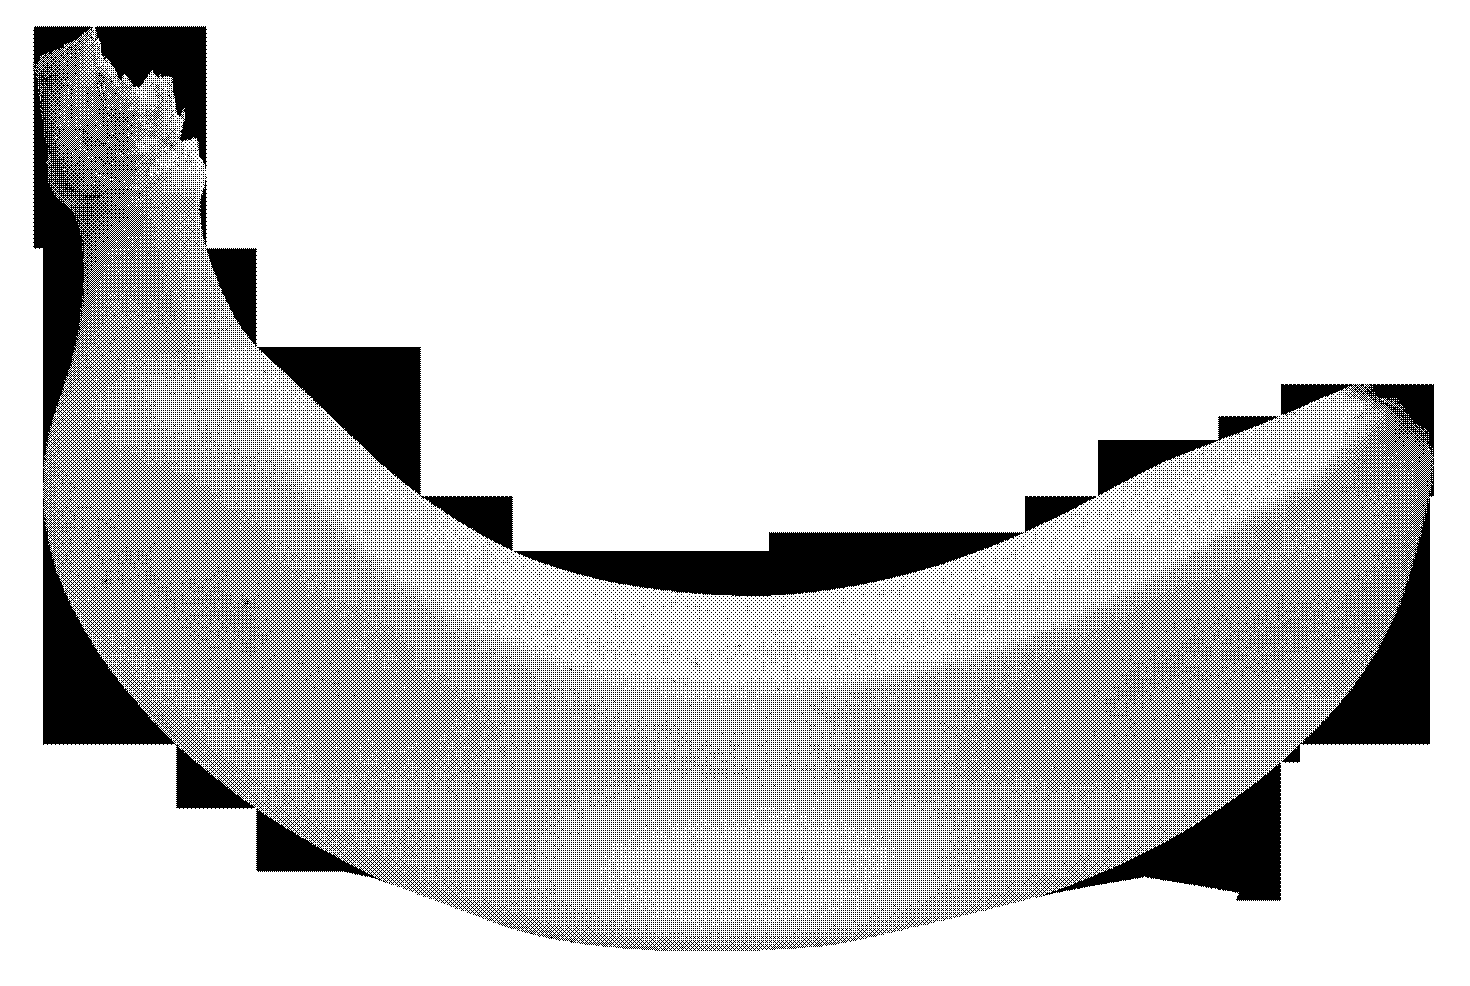
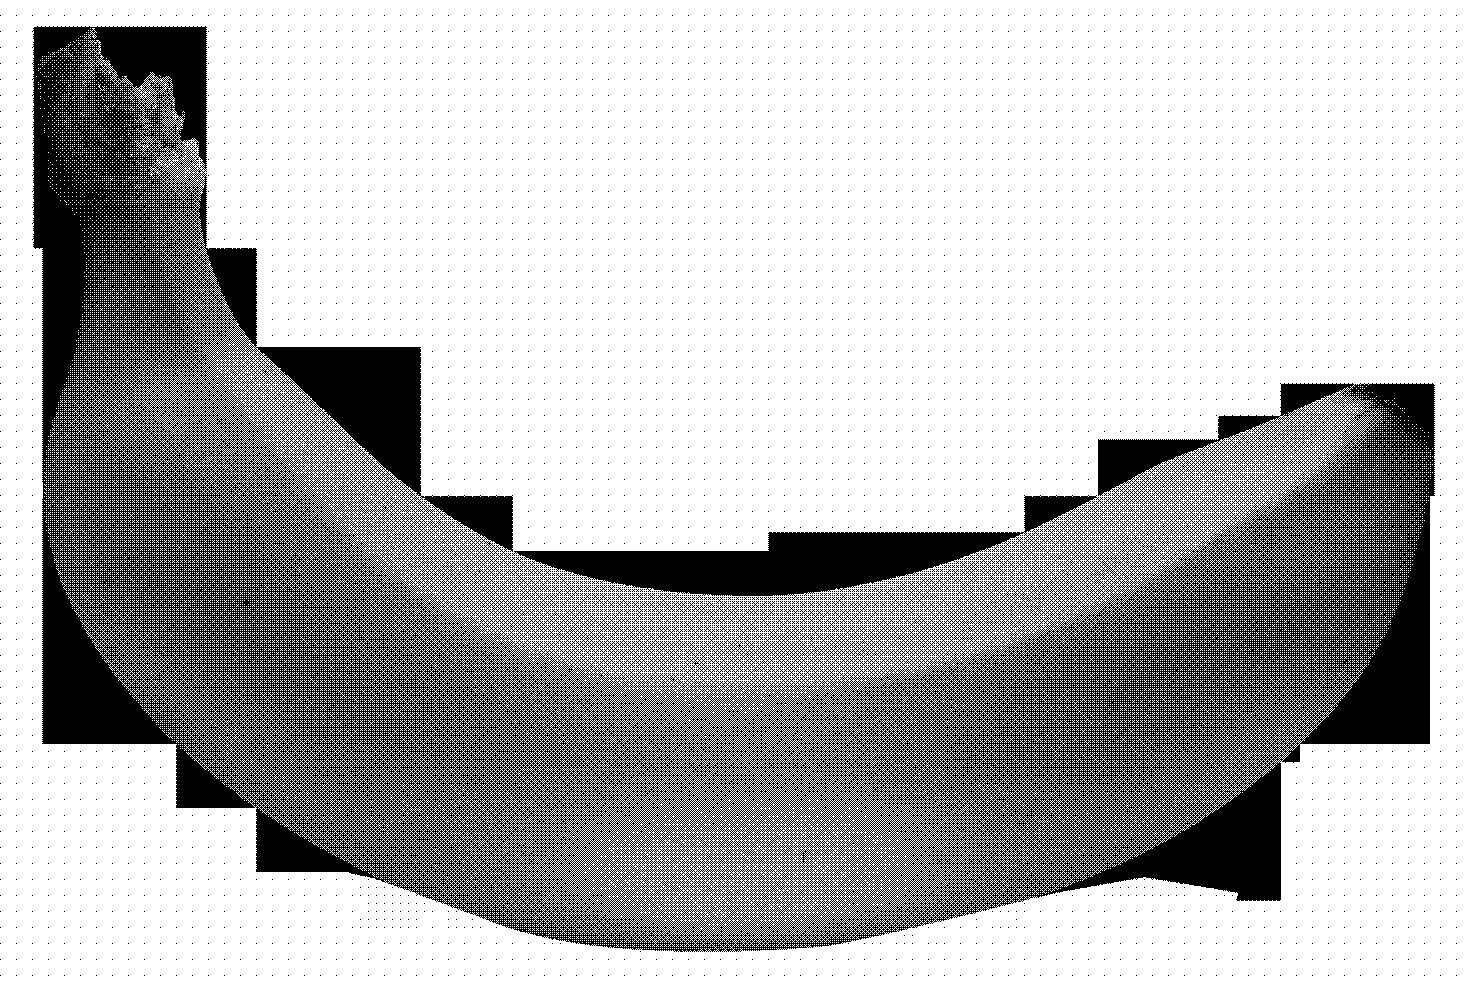
added david and devcontainers config

Changed region(s): [[0.0306, 0.0304, 0.9796, 0.9736]]

diff --git a/README.md b/README.md
@@ -2,10 +2,10 @@
 
 ## Dithering
 
-![golden](dithering/golden.png)
+![golden](dithering/david.png)
 
 Input
 
-![output](dithering/output_golden.png)
+![output](dithering/output_david.png)
 
-Output of 4x4 dithering.
+Output of 16x16 dithering.
